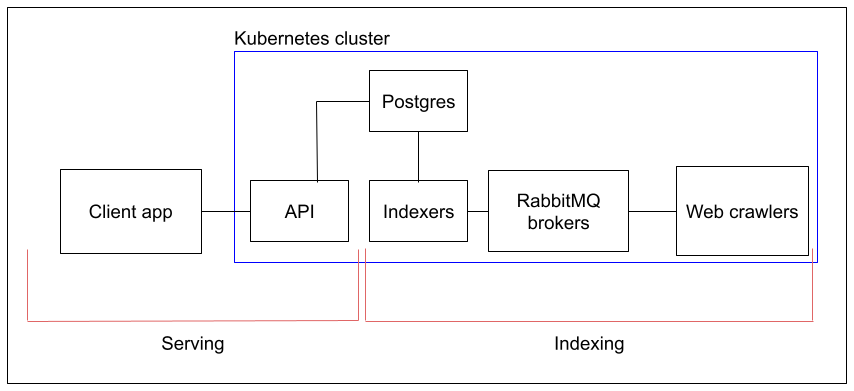
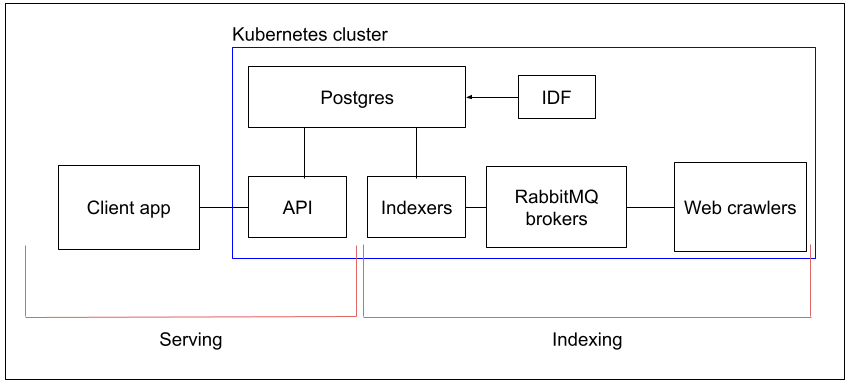
Add IDF to architecture

diff --git a/docs/architecture.md b/docs/architecture.md
@@ -134,6 +134,10 @@ _Architectural Effects:_
  
 -- Reduces scalability, because it's a relational database and it doesn't scale horizontally. We could use [CockroachDB](https://www.cockroachlabs.com/) or [Cassandra](https://cassandra.apache.org/_/index.html) to make it distributed. However, these are not a familiar technologies for us, and we want to get a functional service up as quickly as possible.
 
+#### IDF
+
+to do...
+
 ### Serving
 
 The second major part of our application is Serving, which refers to services that are needed to make our search index accessible to people.  
